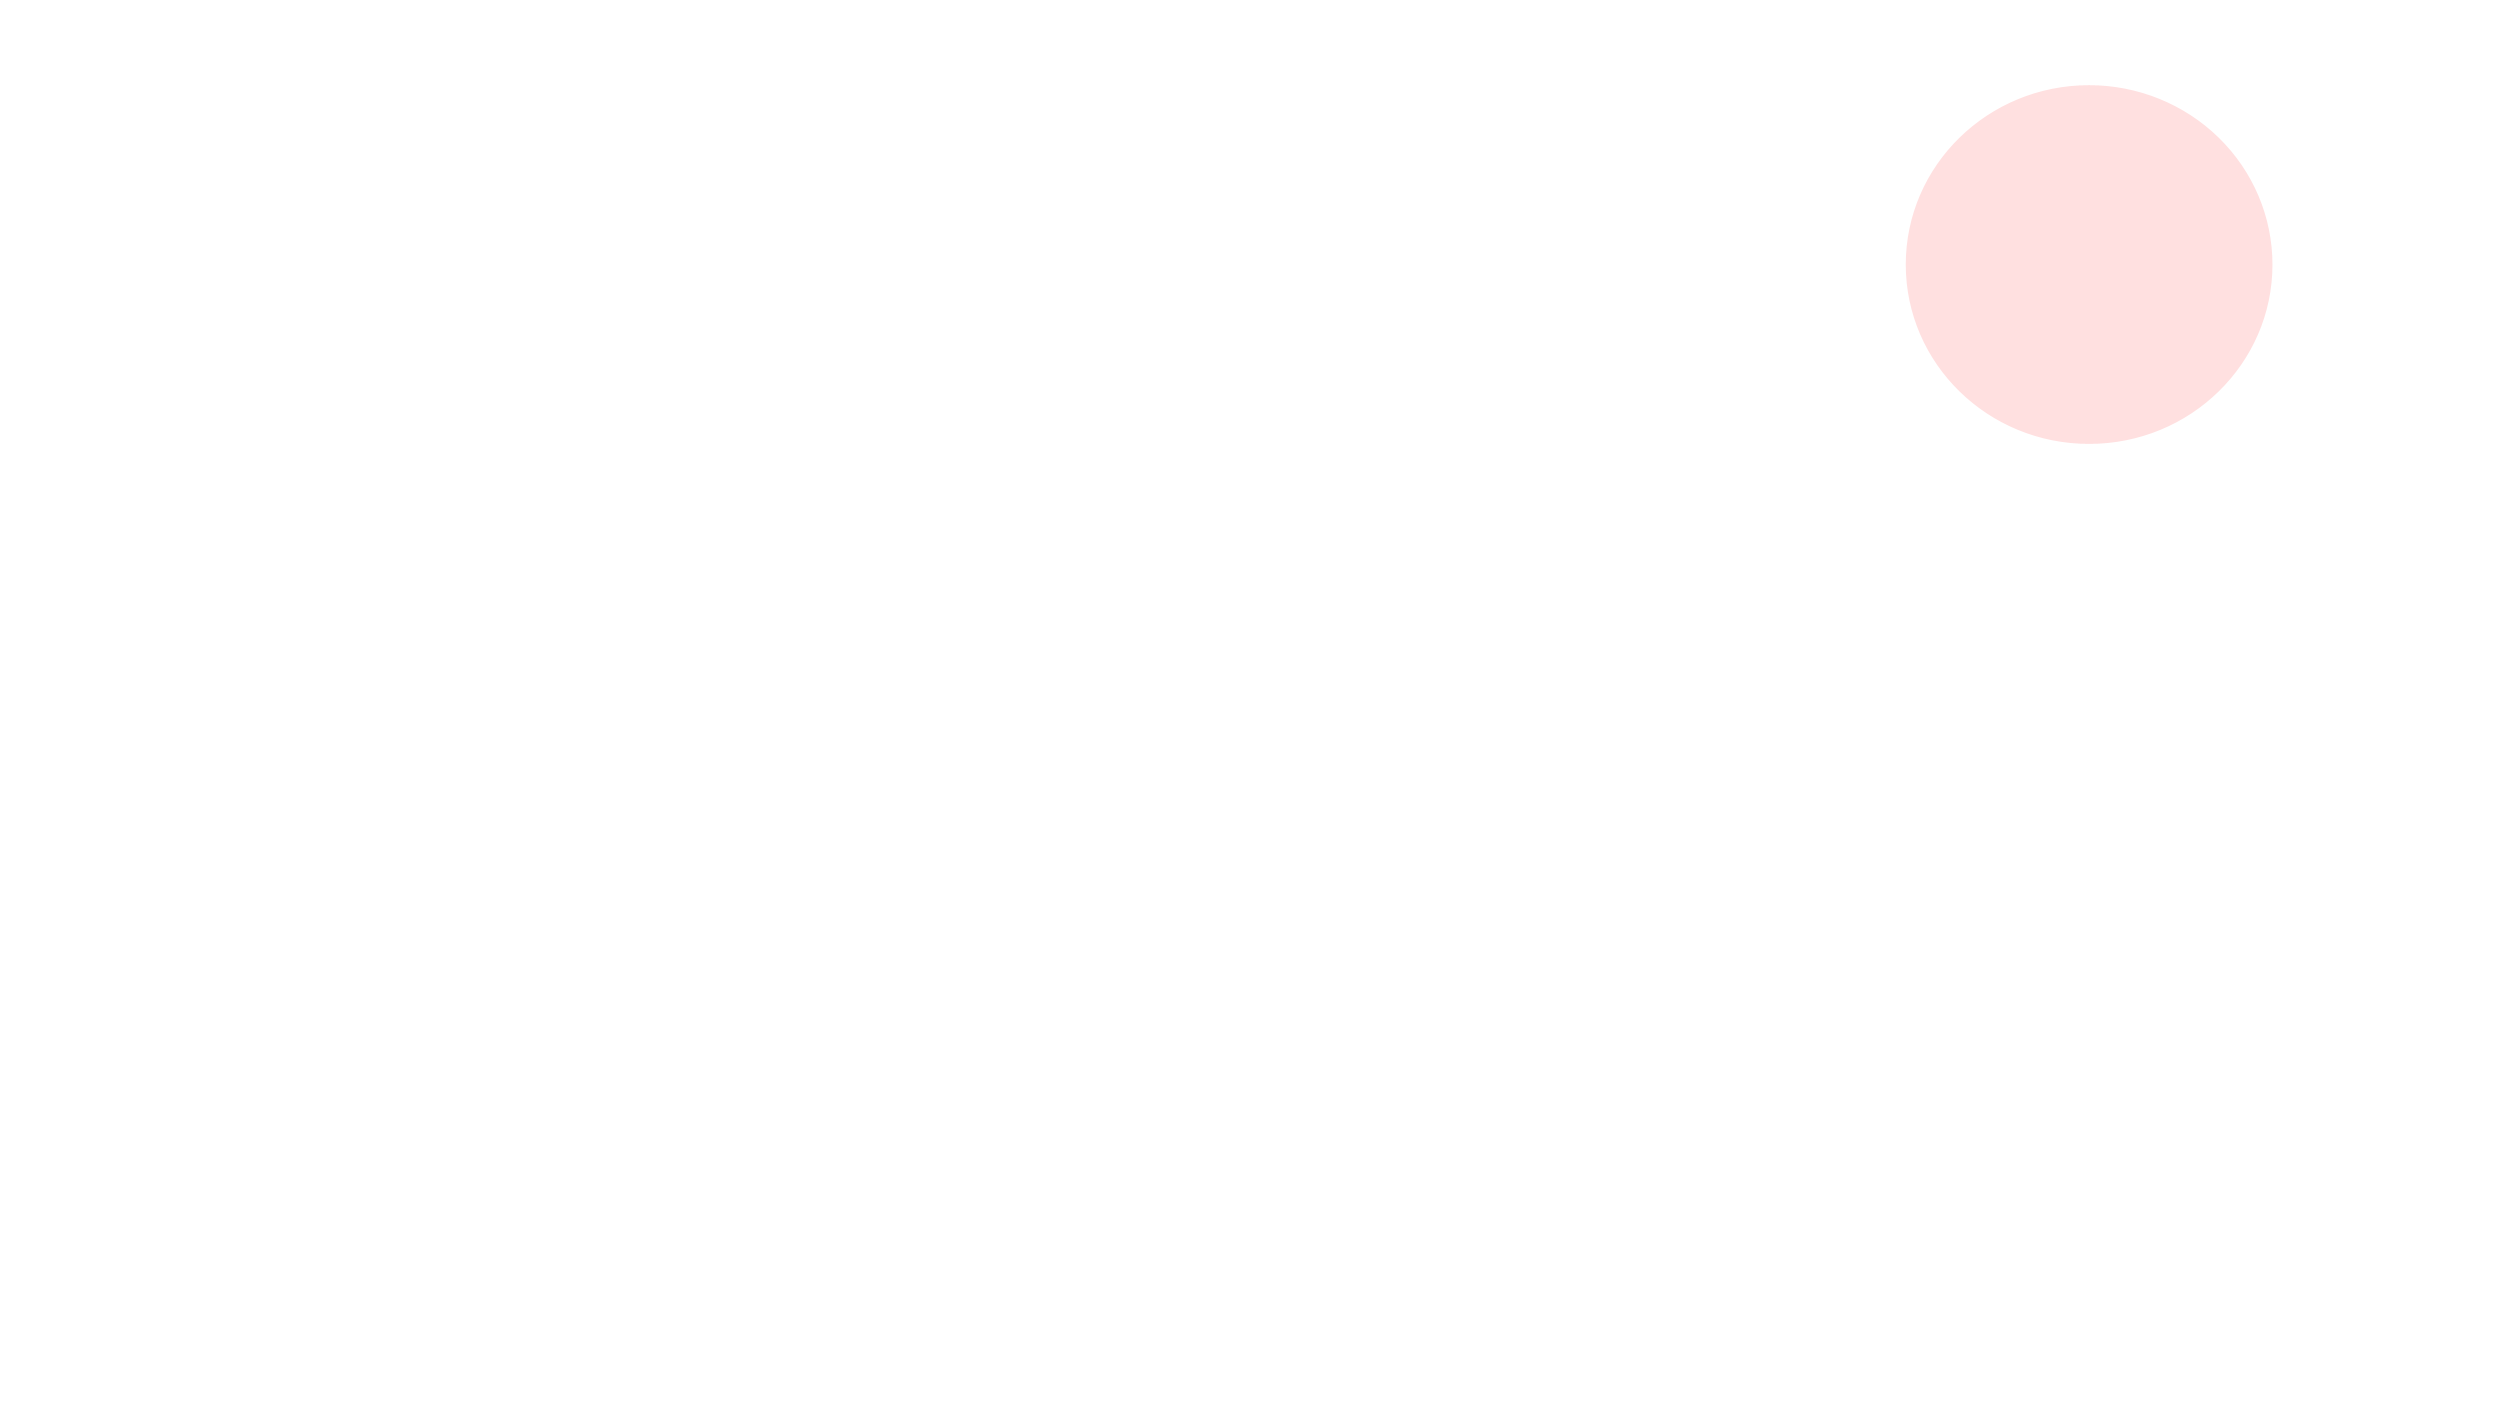
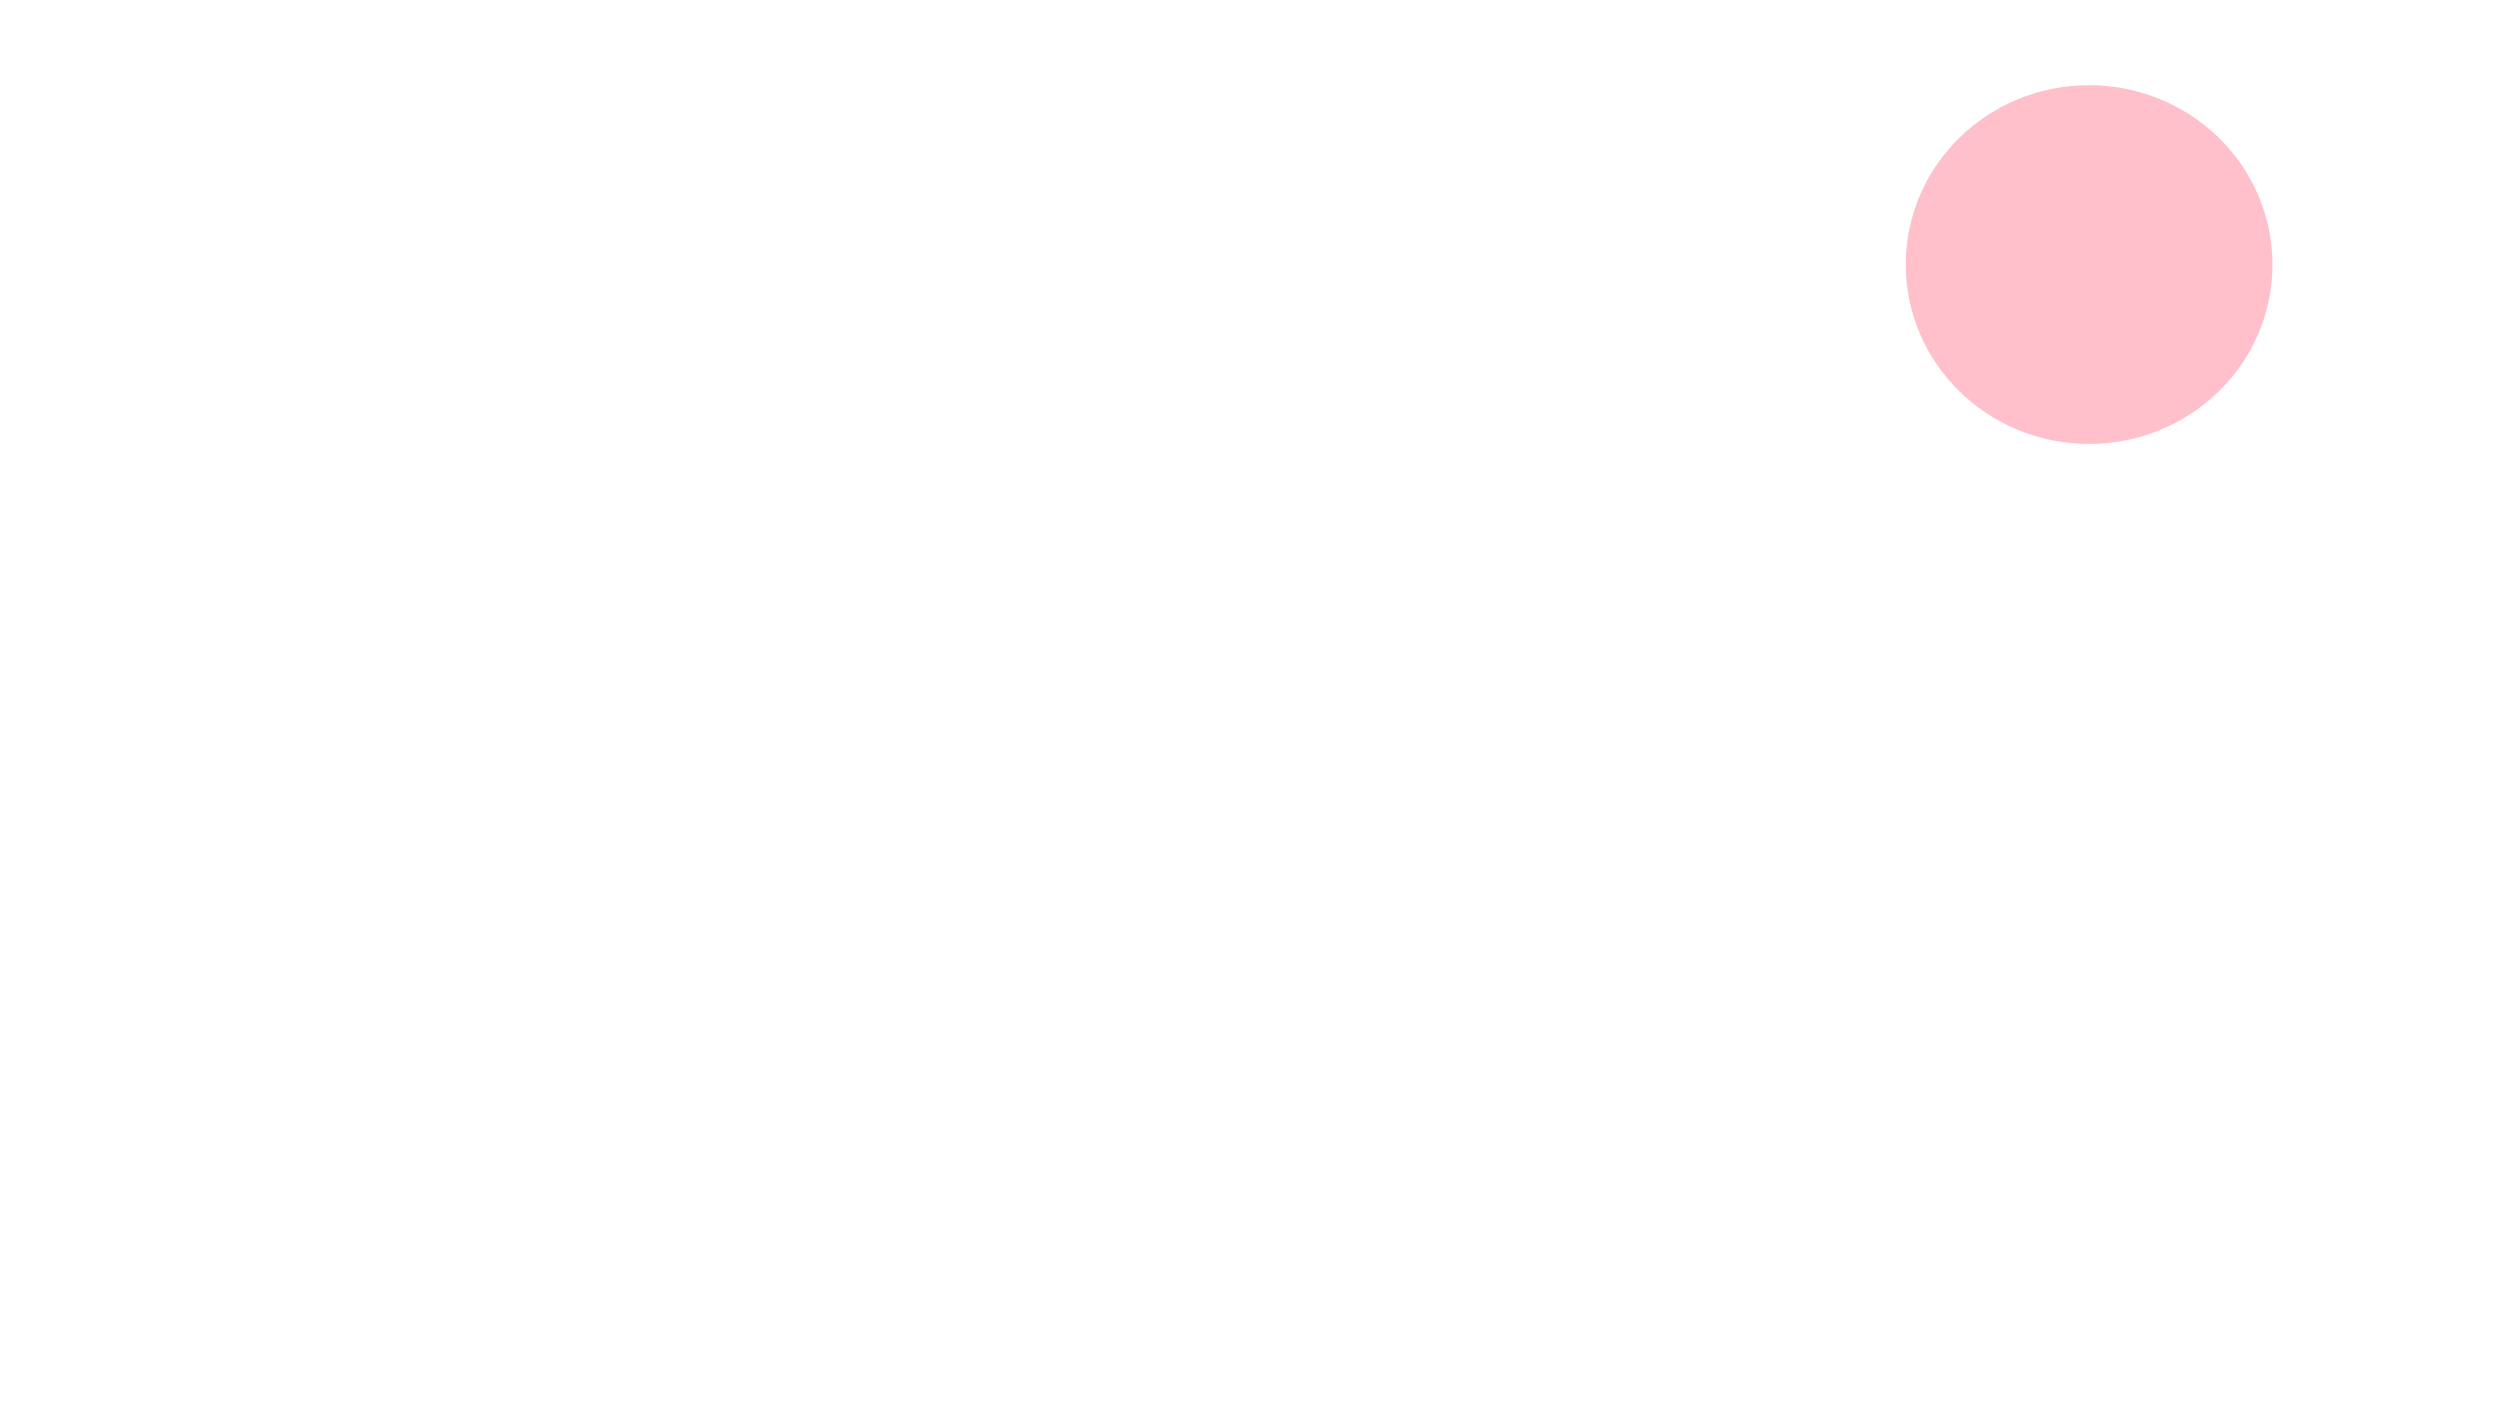
update sunset animation

Changed region(s): [[0.7488, 0.0613, 0.936, 0.3369]]

diff --git a/parallax.js b/parallax.js
@@ -10,9 +10,10 @@ window.addEventListener('scroll', () => {
    // Calculate the parallax effect for each layer
   const parallax = scrollPosition * 0.2;
 
-  document.querySelector('.sky').style.filter = `brightness(calc(100% - ${parallax * 0.7}%))`;
+  // document.querySelector('.sky').style.filter = `brightness(calc(100% - ${parallax * 0.7}%))`;
+  document.querySelector('.sky').style.opacity = `calc(100% - ${parallax * 0.7}%)`;
   document.querySelector('.sun').style.transform = `translateY(${parallax * 7}px)`;
-  document.querySelector('.sun').style.filter = `saturate(calc(100% + ${parallax * 25}%))`;
+  document.querySelector('.sun').style.filter = `saturate(calc(100% + ${parallax * 7}%))`;
   
   document.querySelector('.layer1').style.transform = `translateY(${parallax * 3}px)`;
   document.querySelector('.layer2').style.transform = `translateY(${parallax * 1.3}px)`;
@@ -27,7 +28,6 @@ window.addEventListener('scroll', () => {
 
 
   if (scrollPosition >= window.innerHeight * 0.5 && scrollPosition < window.innerHeight * 2.5) {
-    
     sd1.classList.add('active');
     sd2.classList.remove('active');
     sd3.classList.remove('active');

diff --git a/styles/cover2.css b/styles/cover2.css
@@ -14,6 +14,13 @@ body {
     height: 100vh;
     width: 90vw;;
 }
+.skyset {
+    z-index: -1;
+    position: absolute;
+    background-color: pink;
+    height: 100vh;
+    width: 90vw;;
+}
 
 .sun {
     position: absolute;
@@ -93,7 +100,7 @@ body {
 
 .cover {
     z-index: 12;
-    height: 25vh;
+    max-height: 20vh;
     max-width: 24vw;
     padding: 1vw;
 }
@@ -155,7 +162,7 @@ body {
 
 @media only screen and (max-width: 800px) {
     .text-container {
-        width: 70%;
+        width: 72%;
     }
 }
 
@@ -193,8 +200,16 @@ footer {
 }
 
 #down {
-    bottom: 50px;
-    position: absolute;
-    z-index: 99;
+    margin-top: -20px;
     height: 70px;
+}
+
+.down-cnt {
+    color: pink;
+    display: flex;
+    flex-direction: column;
+    position: absolute;
+    bottom: 50px;
+    display: flex;
+    z-index: 20;
 }

diff --git a/index.html b/index.html
@@ -16,6 +16,7 @@
 <body>
   <div id="overlay"></div>
   <div class="sky"></div>
+  <div class="skyset"></div>
   <div class="sun"></div>
   <div class="mountains layer1"></div>
   <div class="mountains layer2"></div>
@@ -51,8 +52,11 @@
             <br>
         </div>
     </div>
-    <br>
-    <img onclick="window.scrollTo(0, window.innerHeight * 2.6);" id="down" src="images/down.png">
+   
+    <div onclick="window.scrollTo(0, window.innerHeight * 2.6);" class="down-cnt">
+      <p>see more</p>
+      <img id="down" src="images/down.png">
+    </div>
    
    
   </div>

diff --git a/styles/cover.css b/styles/cover.css
@@ -33,7 +33,7 @@ body {
   /* filter: brightness(110%) grayscale(10%) saturate(0.9); */
 }
 #overlay {
-  background-color: rgb(253, 205, 219, 0.2);
+  background-color: rgb(253, 205, 219, 0.3);
   z-index: 10;
   height: 250vh;
   width: 100vw;
